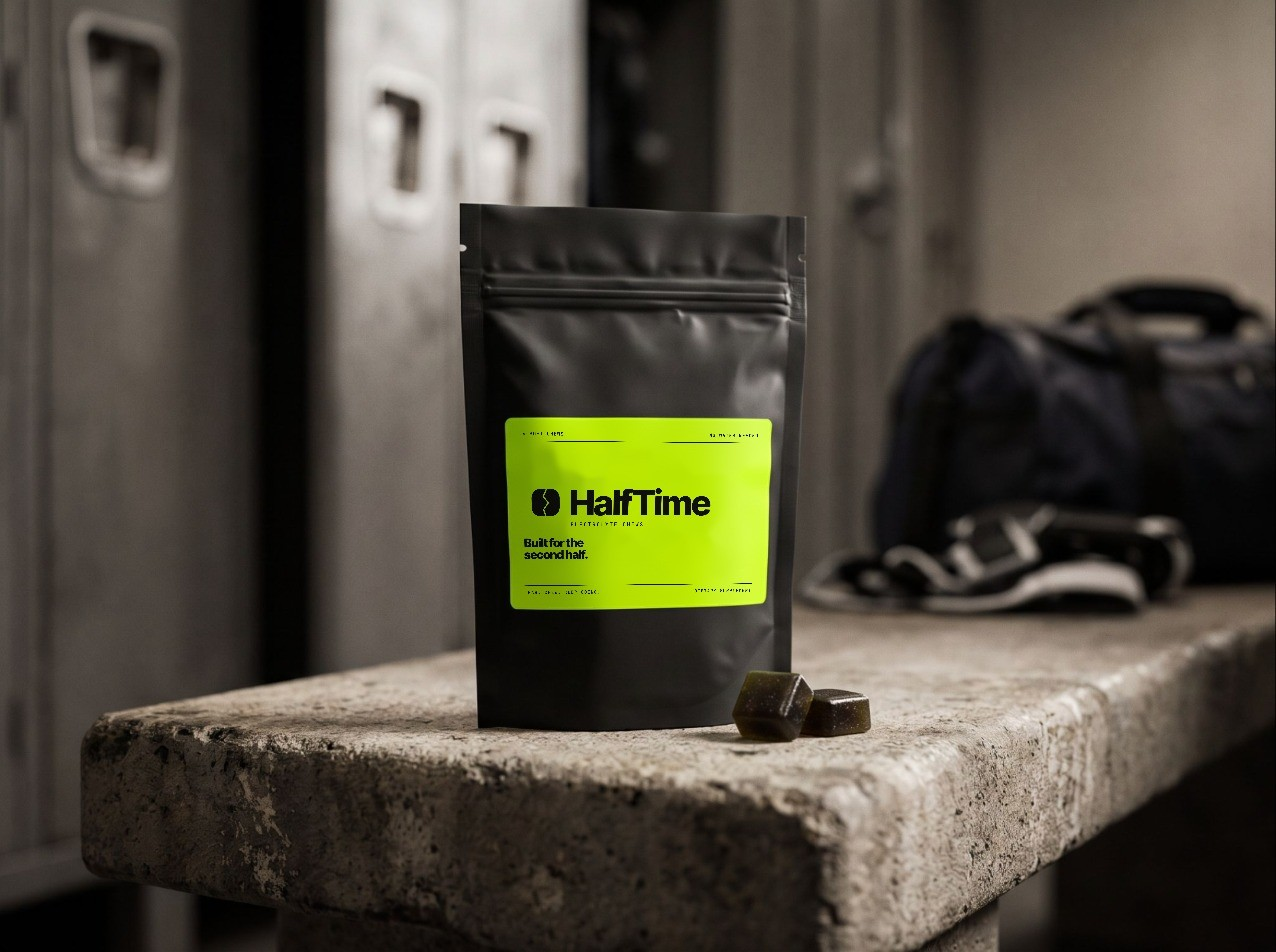
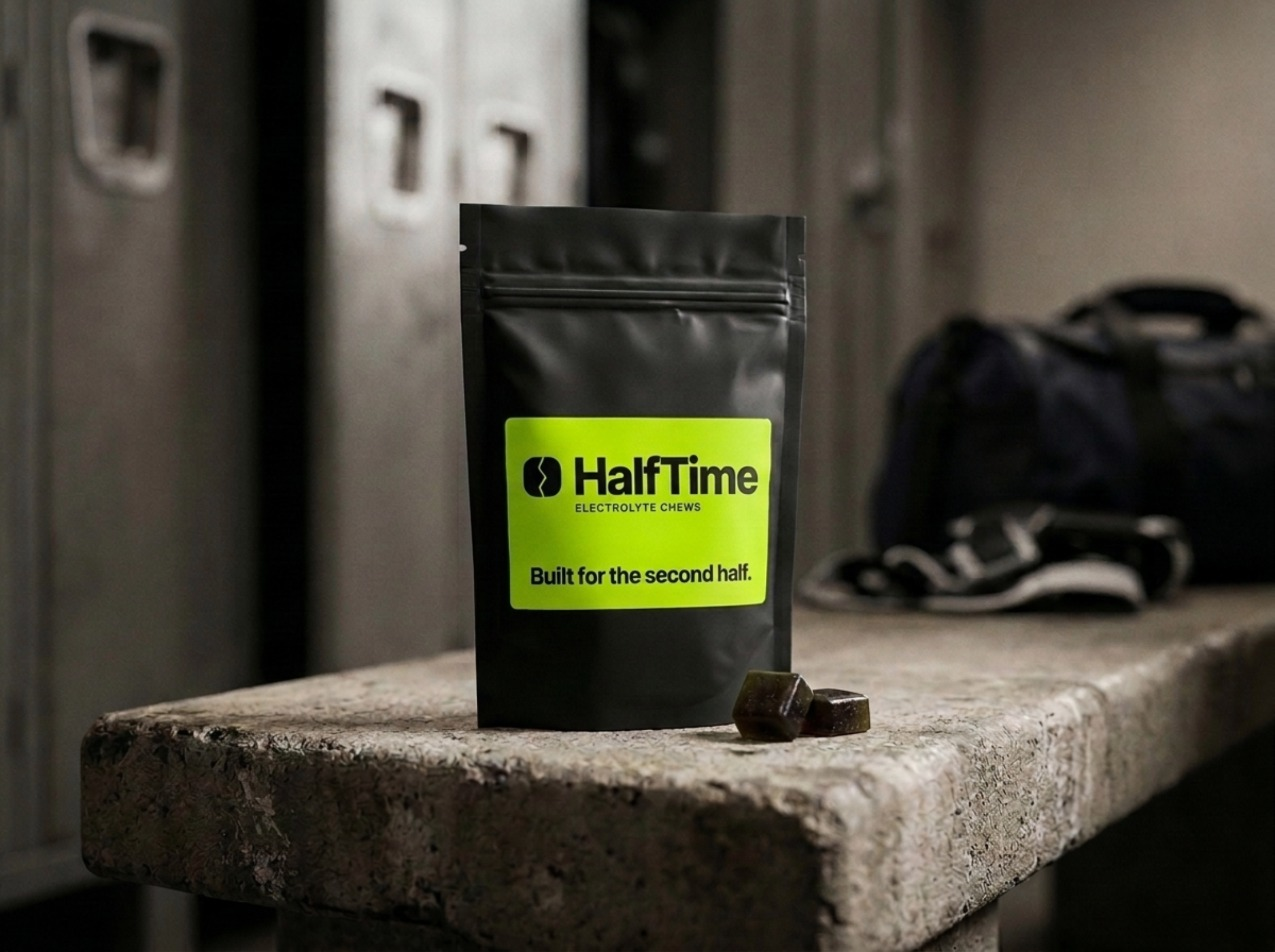
Same package everywhere: gummy lockup, Flow relabels of deck photos (blind-judged per photo), exact tagline patch, site ctx images
Claude-Session: https://claude.ai/code/session_01B3QMN9DCkvQENnmqgdDHNr

diff --git a/brand/pack/tagline_patch.py b/brand/pack/tagline_patch.py
@@ -1,0 +1,90 @@
+# Fix AI-garbled tiny "ELECTROLYTE CHEWS" line on a lime label.
+# usage: tagline_patch.py src dst '[[x0,y0,x1,y1,angle_deg],...]'  box = label area (level after rotating by angle)
+import sys, json, numpy as np, cv2
+from PIL import Image, ImageDraw, ImageFont
+F='/home/claude/halftime-chews-site/fonts/jetbrains-mono-latin-500-normal.woff2'
+def font(px):
+    from fontTools.ttLib import TTFont
+    import io,os
+    p='/tmp/jb500.ttf'
+    if not os.path.exists(p):
+        t=TTFont(F); t.flavor=None; t.save(p)
+    return ImageFont.truetype(p,px)
+def patch(img,box):
+    x0,y0,x1,y1,ang=box[:5]; ov=box[5] if len(box)>5 else None
+    cx,cy=(x0+x1)/2,(y0+y1)/2
+    H,W=img.shape[:2]
+    M=cv2.getRotationMatrix2D((cx,cy),ang,1.0); Mi=cv2.invertAffineTransform(M)
+    r=cv2.warpAffine(img,M,(W,H),flags=cv2.INTER_CUBIC,borderMode=cv2.BORDER_REFLECT)
+    c=r[y0:y1,x0:x1].astype(int)
+    lime=(c[...,1]>140)&(c[...,1]-c[...,2]>55); dark=c.sum(2)<260
+    lab=cv2.morphologyEx(lime.astype(np.uint8),cv2.MORPH_CLOSE,np.ones((15,15),np.uint8))
+    cs,_=cv2.findContours(lab,cv2.RETR_EXTERNAL,cv2.CHAIN_APPROX_SIMPLE); labm=np.zeros_like(lab)
+    cv2.drawContours(labm,[max(cs,key=cv2.contourArea)],-1,1,-1)
+    labm=cv2.erode(labm,np.ones((3,3),np.uint8)).astype(np.float32)
+    ink=[]
+    for y in range(c.shape[0]):
+        lx=np.where(lime[y])[0]
+        if len(lx)<15: ink.append(0); continue
+        ink.append(int(dark[y,lx.min()+2:lx.max()-2].sum()))
+    ink=np.array(ink)
+    # bands of ink rows
+    bands=[];s=None
+    for y,v in enumerate(ink):
+        if v>0 and s is None: s=y
+        if v==0 and s is not None: bands.append((s,y-1)); s=None
+    if s is not None: bands.append((s,len(ink)-1))
+    # tagline = thinnest band right after the tallest (logo) band
+    logo=max(range(len(bands)),key=lambda i:bands[i][1]-bands[i][0])
+    tb=bands[logo+1]; ty0,ty1=tb
+    xs=np.where(dark[ty0:ty1+1].any(0)&lime[max(0,ty0-4):ty1+5].any(0))[0]
+    tx0,tx1=xs.min(),xs.max()
+    # logo word left edge: rows of logo band, dark columns
+    lb=bands[logo]; lcols=np.where(dark[lb[0]:lb[1]+1].sum(0)>2)[0]
+    d=np.diff(lcols); first=[i for i in np.where(d>1)[0] if lcols[i]-lcols[0] < 0.35*(lcols[-1]-lcols[0])]
+    if first:
+        g=max(first,key=lambda i:d[i]); tx0=lcols[g+1]   # widest gap in the icon zone = icon|word gap
+    force_erase=bool(ov) and len(ov)>4
+    if ov: ty0,ty1,tx0,tx1=ov[:4]
+    pad=2; sy0,sy1=ty0-pad,ty1+pad+1; sx0,sx1=max(0,tx0-6),min(c.shape[1],tx1+6)
+    region=r[y0:y1,x0:x1].astype(np.float32).copy()
+    # fill = per-column median of clean lime pixels in a band around the strip (no logo/slogan ink)
+    b0,b1=max(0,sy0-8),min(region.shape[0],sy1+8)
+    band=region[b0:b1]; bl=(band[...,1]>140)&(band[...,1]-band[...,2]>55)&(band.sum(2)>330)
+    fill=np.zeros((region.shape[1],3),np.float32); glob=np.median(band[bl],0)
+    for x in range(sx0,sx1):
+        xs=slice(max(0,x-4),x+5); v=band[:,xs][bl[:,xs]]
+        fill[x]=np.median(v,0) if len(v)>6 else glob
+    fill[sx0:sx1]=cv2.GaussianBlur(fill[sx0:sx1][None],(0,0),3)[0]
+    rng=np.random.default_rng(0)
+    for y in range(sy0,sy1): region[y,sx0:sx1]=fill[sx0:sx1]+rng.normal(0,1.5,(sx1-sx0,3))
+    hgt=ty1-ty0+1; S=6; txt='ELECTROLYTE CHEWS'
+    if hgt<4 or force_erase:   # too small to print legibly: leave clean lime
+        r2=r.copy(); r2[y0:y1,x0:x1]=region.clip(0,255).astype(np.uint8)
+        m=np.zeros((H,W),np.float32); m[y0+sy0:y0+sy1,x0+sx0:x0+sx1]=1; m[y0:y1,x0:x1]*=labm
+        back=cv2.warpAffine(r2,Mi,(W,H),flags=cv2.INTER_CUBIC,borderMode=cv2.BORDER_REFLECT)
+        mb=cv2.warpAffine(m,Mi,(W,H),flags=cv2.INTER_LINEAR)[...,None]
+        print('tagline erased (too small)'); return (img*(1-mb)+back*mb).clip(0,255).astype(np.uint8); S=6; txt='ELECTROLYTE CHEWS'
+    fpx=int(hgt*S*1.38); fo=font(fpx)
+    tw=fo.getlength(txt); target=(tx1-tx0+1)*S
+    sp=(target-tw)/(len(txt)-1)
+    can=Image.new('L',(int(target)+20,int(hgt*S*2)),0); d=ImageDraw.Draw(can); x=0
+    asc=fo.getbbox('E')[1]
+    for ch in txt:
+        d.text((x,-asc+hgt*S*0.0),ch,font=fo,fill=255); x+=fo.getlength(ch)+sp
+    a=np.array(can.resize((can.width//S,can.height//S),Image.LANCZOS)).astype(np.float32)/255
+    a=a[:hgt+1,:tx1-tx0+1]
+    sh=region[ty0:ty0+a.shape[0],tx0:tx0+a.shape[1]].mean(2,keepdims=True)/np.median(region[sy0:sy1,sx0:sx1].mean(2))
+    inkc=np.array([16,17,14],np.float32)*np.clip(sh,.6,1.4)
+    seg=region[ty0:ty0+a.shape[0],tx0:tx0+a.shape[1]]
+    region[ty0:ty0+a.shape[0],tx0:tx0+a.shape[1]]=seg*(1-a[...,None]*.92)+inkc*a[...,None]*.92
+    r2=r.copy(); r2[y0:y1,x0:x1]=region.clip(0,255).astype(np.uint8)
+    m=np.zeros((H,W),np.float32); m[y0+sy0:y0+sy1,x0+sx0:x0+sx1]=1; m[y0:y1,x0:x1]*=labm
+    back=cv2.warpAffine(r2,Mi,(W,H),flags=cv2.INTER_CUBIC,borderMode=cv2.BORDER_REFLECT)
+    mb=cv2.warpAffine(m,Mi,(W,H),flags=cv2.INTER_LINEAR)[...,None]
+    print('tagline rows',ty0+y0,ty1+y0,'x',tx0+x0,tx1+x0)
+    return (img*(1-mb)+back*mb).clip(0,255).astype(np.uint8)
+src,dst,boxes=sys.argv[1],sys.argv[2],json.loads(sys.argv[3])
+im=np.array(Image.open(src).convert('RGB'))
+for b in boxes: im=patch(im,b)
+Image.fromarray(im).save(dst,quality=93)

diff --git a/brand/pack/relabel_ink_simple.py b/brand/pack/relabel_ink_simple.py
@@ -1,0 +1,27 @@
+# simple label ink (logo w/ tagline + slogan), any aspect -> /tmp/rl/ink_<key>.png
+import asyncio, sys, json
+from playwright.async_api import async_playwright
+import re
+svg=open('/home/claude/halftime-chews-site/brand/logo-on-lime.svg').read()
+svg=re.sub(r'<path d="[^"]*" fill="#2a2a26"/>','',svg)  # drop tiny tagline: unreadable at photo label size
+F='file:///home/claude/halftime-chews-site/fonts/'
+def html(W,H,mode):
+    u=min(W/880,H/460)   # ref label is 880x460
+    slo='' if mode=='LOGO' else f'<div class="s">Built for the second half.</div>'
+    return f'''<!doctype html><html><head><style>
+@font-face{{font-family:IT;src:url({F}inter-tight-latin-800-normal.woff2);font-weight:800}}
+html,body{{margin:0;background:transparent}}
+.l{{width:{W}px;height:{H}px;display:flex;flex-direction:column;align-items:center;justify-content:center;gap:{56*u}px}}
+.l svg{{width:{820*u if mode!='LOGO' else 0.86*W}px;height:auto;display:block}}
+.s{{font:800 {64*u}px IT;color:#0B0B0A;letter-spacing:-.02em;white-space:nowrap}}
+</style></head><body><div class="l">{svg}{slo}</div></body></html>'''
+async def main(jobs):
+  async with async_playwright() as p:
+    b=await p.chromium.launch(); pg=await b.new_page(device_scale_factor=2)
+    for key,asp,mode in jobs:
+      H=600; W=int(H*asp); await pg.set_viewport_size({'width':W,'height':H})
+      open('/tmp/rl/l.html','w').write(html(W,H,'LOGO' if mode=='LOGO' else 'FULL'))
+      await pg.goto('file:///tmp/rl/l.html'); await pg.wait_for_timeout(300)
+      await pg.locator('.l').screenshot(path=f'/tmp/rl/ink_{key}.png',omit_background=True)
+    await b.close()
+asyncio.run(main(json.loads(sys.argv[1])))
